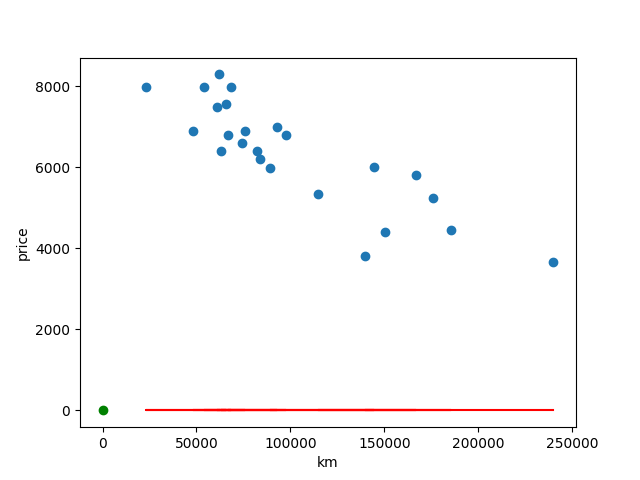
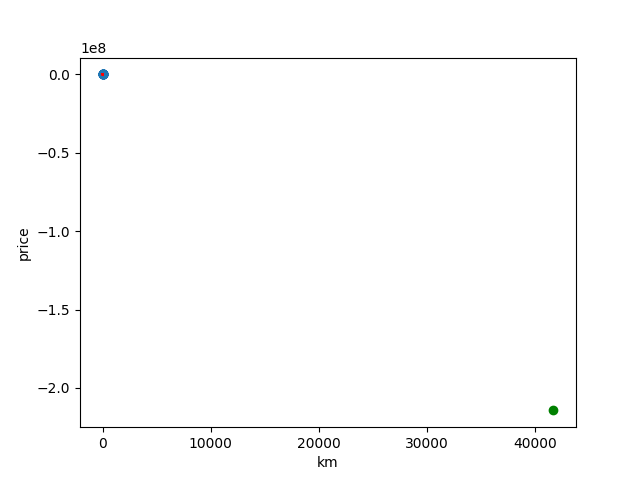
refactorisation

diff --git a/predict.py b/predict.py
@@ -1,62 +1,43 @@
 import sys
-import pandas as pd
+from utils import Utils
 from plotter import Plotter
 
-def get_data(dataset) :
-    df = pd.read_csv(dataset)
-    X = df.iloc[0:len(df),0]#kms
-    Y = df.iloc[0:len(df),1]#prices observed
-    return [X, Y]
+#global vars
+utils = Utils
 
-def predict_Y(X_input, theta_0, theta_1, X_min, X_max) :
+def predict_Y(X_input, theta_0, theta_1) :
     return theta_0 + (theta_1 * X_input)
 
 def main():
-    #check args for plot
-    show_plot = False
-    if (len(sys.argv) > 1 and sys.argv[1] == "--plot") :
-        show_plot = True
-
-    #open file
-    try:
-        with open('thetas.txt', 'r') as f:
-            theta_0, theta_1 = [float(x) for x in next(f).split()]
-            nameX, nameY = [str(x) for x in next(f).split()]
-            X_min, X_max = [float(x) for x in next(f).split()]
-            dataset = [str(x) for x in next(f).split()]
-    except: #for compliance with subject
-        print("thetas file doesn't exist. Running with thetas set at 0.")
-        theta_0 = theta_1 = 0
-        nameX, nameY = "km", "price"
-        X_min = X_max = 0
-        dataset = ["data.csv"]
+    show_plot = utils.show_plot(sys.argv)
+    [thetas, names, X_range, filename] = utils.open()
     
     #ask for input X
     X_correct = False
     while X_correct == False :
-        X_str = input("Enter %s: " %nameX)
+        X_str = input("Enter %s: " %names[0])
         try :
             X_input = float(X_str) - 0
             if (X_input >= 0) :
                 X_correct = True
             else : 
-                print("%s is negative" %nameX)
+                print("%s is negative" %names[0])
         except :
             print("Not a number")
 
     #scale input
-    X_scale = (float(X_input) - X_min) / (X_max - X_min) if X_max else X_input
+    X_scale = utils.scale(X_input, X_range[0], X_range[1]) if X_range[1] else X_input
 
     #launch predict
-    predicted_Y = predict_Y(X_scale, theta_0, theta_1, X_min, X_max)
-    print("Predicted %s is: %f" %(nameY, predicted_Y)) if predicted_Y > 0 else print("0")
+    predicted_Y = predict_Y(X_scale, thetas[0], thetas[1])
+    print("Predicted %s is: %f" %(names[1], predicted_Y)) if predicted_Y > 0 else print("0")
 
     #plot
     if show_plot == True:
-        [X_set, Y_set] = get_data(*dataset)
-        X_set_scale = (X_set.astype(float) - X_min) / (X_max - X_min) if X_max else X_set
+        [X_set, Y_set, m] = utils.get_data(*filename)
+        X_set_scale = utils.scale(X_set, X_range[0], X_range[1]) if X_range[1] else X_set
         plotter = Plotter
-        plotter.predict_plot(X_set_scale, Y_set, theta_0, theta_1, X_scale, predicted_Y)
+        plotter.predict_plot(X_set_scale, Y_set, thetas[0], thetas[1], X_scale, predicted_Y)
 
 if __name__ == "__main__":
     main()

diff --git a/train.py b/train.py
@@ -1,38 +1,12 @@
 import sys
-import pandas as pd
 from plotter import Plotter
+from utils import Utils
 
 #global vars
 learning_rate = 0.1
 initial_theta_0 = 0.0
 initial_theta_1 = 0.0
-
-#utils
-def get_max(data) -> float:
-    tmp = 0
-    for nb in data:
-        if nb > tmp:
-            tmp = nb
-    return tmp
-
-def get_min(data) -> float:
-    tmp = 0
-    for nb in data:
-        if nb < tmp:
-            tmp = nb
-    return tmp
-
-def get_data(dataset) :
-    df = pd.read_csv(dataset)
-    X = df.iloc[0:len(df),0]#kms
-    Y = df.iloc[0:len(df),1]#prices observed
-    m = len(X)
-    return [X, Y, m]
-
-def save(thetas, names, X_range, dataset):
-    with open('thetas.txt', 'w') as f:
-        f.write("%f %f\n%s %s\n%f %f\n%s" \
-            %(thetas[0], thetas[1], names[0], names[1], X_range[0], X_range[1], dataset))
+utils = Utils
 
 #linear_regression
 def calculate_gradiants(old_theta_0, old_theta_1, X, Y, m) :
@@ -62,34 +36,29 @@ def train(X, Y, m):
 
 
 def main():
-    #check args for plot
-    show_plot = False
-    if (len(sys.argv) > 1 and sys.argv[1] == "--plot") :
-        show_plot = True
+    show_plot = utils.show_plot(sys.argv)
 
-    #load data
-    check_dataset = False
-    while check_dataset == False :
-        dataset = input("Enter path to dataset: ")
+    #getfile
+    check_file = False
+    while check_file == False :
+        filename = input("Enter path to dataset: ")
         try :
-            [X, Y, m] = get_data(dataset)
-            check_dataset = True
+            [X, Y, m] = utils.get_data(filename)
+            check_file = True
         except :
             print("Error: File does not exist or has wrong format")
 
-    #scale to bring data to same range between 0 and 1 - only needed for X
-    X_range = [get_min(X), get_max(X)]
-    X_scale = (X.astype(float) - X_range[0]) / (X_range[1] - X_range[0])
+    #scale data between 0 & 1 - only needed for X
+    X_range = [utils.get_min(X), utils.get_max(X)]
+    X_scale = utils.scale(X, X_range[0], X_range[1])
 
     #launch train
     thetas = train(X_scale, Y, m)
-
-    #result
     print ("Results : theta_0: %f, theta_1: %f" %(thetas[0], thetas[1]))
 
     #save
     names = [X.name, Y.name]
-    save(thetas, names, X_range, dataset)
+    utils.save(thetas, names, X_range, filename)
 
     #plot
     if show_plot == True:

diff --git a/utils.py b/utils.py
@@ -1,0 +1,53 @@
+import pandas as pd
+
+class Utils:
+
+    def get_max(data) -> float:
+        tmp = 0
+        for nb in data:
+            if nb > tmp:
+                tmp = nb
+        return tmp
+
+    def get_min(data) -> float:
+        tmp = 0
+        for nb in data:
+            if nb < tmp:
+                tmp = nb
+        return tmp
+
+    def get_data(filename) :
+        df = pd.read_csv(filename)
+        X = df.iloc[0:len(df),0]#kms
+        Y = df.iloc[0:len(df),1]#prices observed
+        m = len(X)
+        return [X, Y, m]
+
+    def save(thetas, names, X_range, dataset):
+        with open('thetas.txt', 'w') as f:
+            f.write("%f %f\n%s %s\n%f %f\n%s" \
+                %(thetas[0], thetas[1], names[0], names[1], X_range[0], X_range[1], dataset))
+
+    def scale(to_scale, min, max) :
+        try:
+            return (to_scale.astype(float) - min) / (max - min)
+        except:
+            return (float(to_scale) - min) / (max - min)
+
+    def show_plot(args):
+        return True if (len(args) > 1 and args[1] == "--plot") else False
+    
+    def open():
+        try:
+            with open('thetas.txt', 'r') as f:
+                thetas = [float(x) for x in next(f).split()]
+                names = [str(x) for x in next(f).split()]
+                X_range = [float(x) for x in next(f).split()]
+                filename = [str(x) for x in next(f).split()]
+        except: #for compliance with subject
+            print("thetas file doesn't exist. Running with thetas set at 0.")
+            thetas = [0, 0]
+            names = ["km", "price"]
+            X_range = [0, 0]
+            filename = ["data.csv"]
+        return [thetas, names, X_range, filename]

diff --git a/notes and subject/todo.md b/notes and subject/todo.md
@@ -1,3 +1,3 @@
 # ft_linear_regression
 - test script on VM
-- understand denormalize & open thetas
+- open thetas
